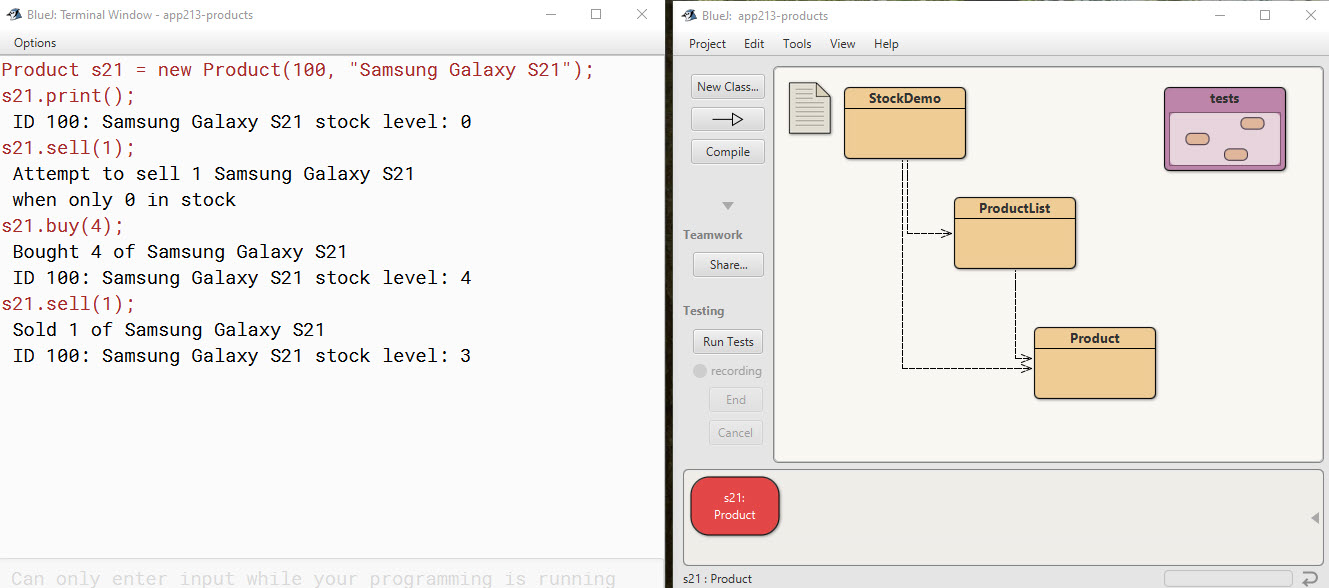
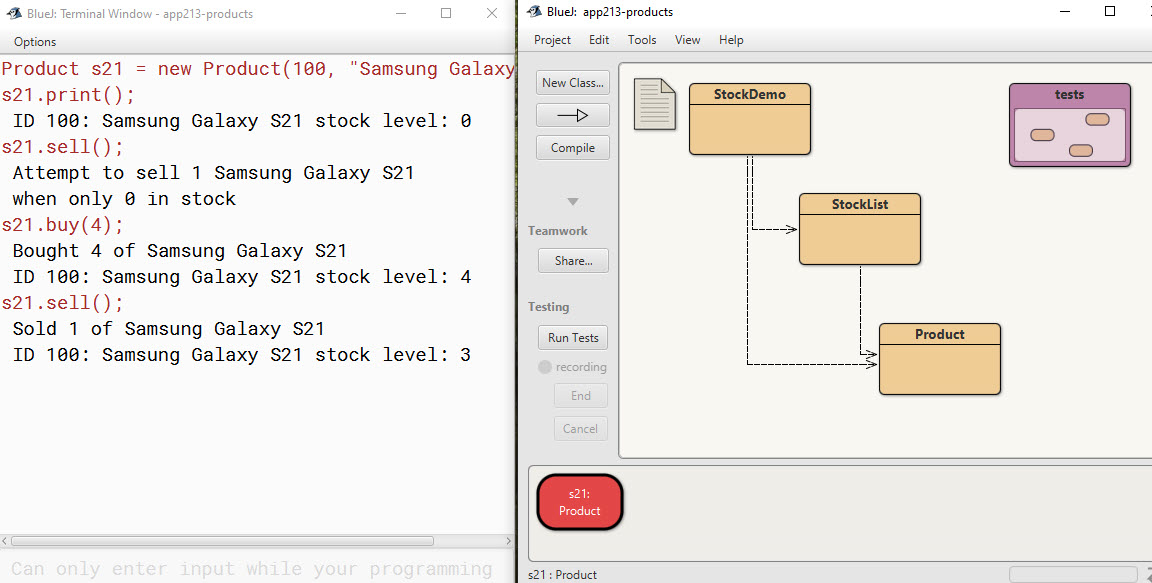
changed ProductList to StockList

diff --git a/app213-products/Product.java b/app213-products/Product.java
@@ -80,9 +80,17 @@ public class Product
             quantity += amount;
             System.out.println(" Bought " + amount + " of " + name);
             print();
-        }
+        }        
     }
 
+    /**
+     * A method to sell a single quantity of the product
+     */
+    public void sell()
+    {
+        sell(1);
+    }
+    
     /**
      * Sell one of these products.
      * An error is reported if there appears to be no stock.

diff --git a/app213-products/StockList.java b/app213-products/StockList.java
@@ -7,7 +7,7 @@ import java.util.ArrayList;
  * @author (your name) 
  * @version (a version number or a date)
  */
-public class ProductList
+public class StockList
 {
     // A list of the products.
     private ArrayList<Product> stock;
@@ -15,7 +15,7 @@ public class ProductList
     /**
      * Initialise the stock manager.
      */
-    public ProductList()
+    public StockList()
     {
         stock = new ArrayList<>();
     }

diff --git a/app213-products/StockDemo.java b/app213-products/StockDemo.java
@@ -10,13 +10,13 @@
 public class StockDemo
 {
     // The stock manager.
-    private ProductList stock;
+    private StockList stock;
 
     /**
      * Create a StockManager and populate it with at least
      * 10 sample products.
      */
-    public StockDemo(ProductList stock)
+    public StockDemo(StockList stock)
     {
         this.stock = stock;
         
